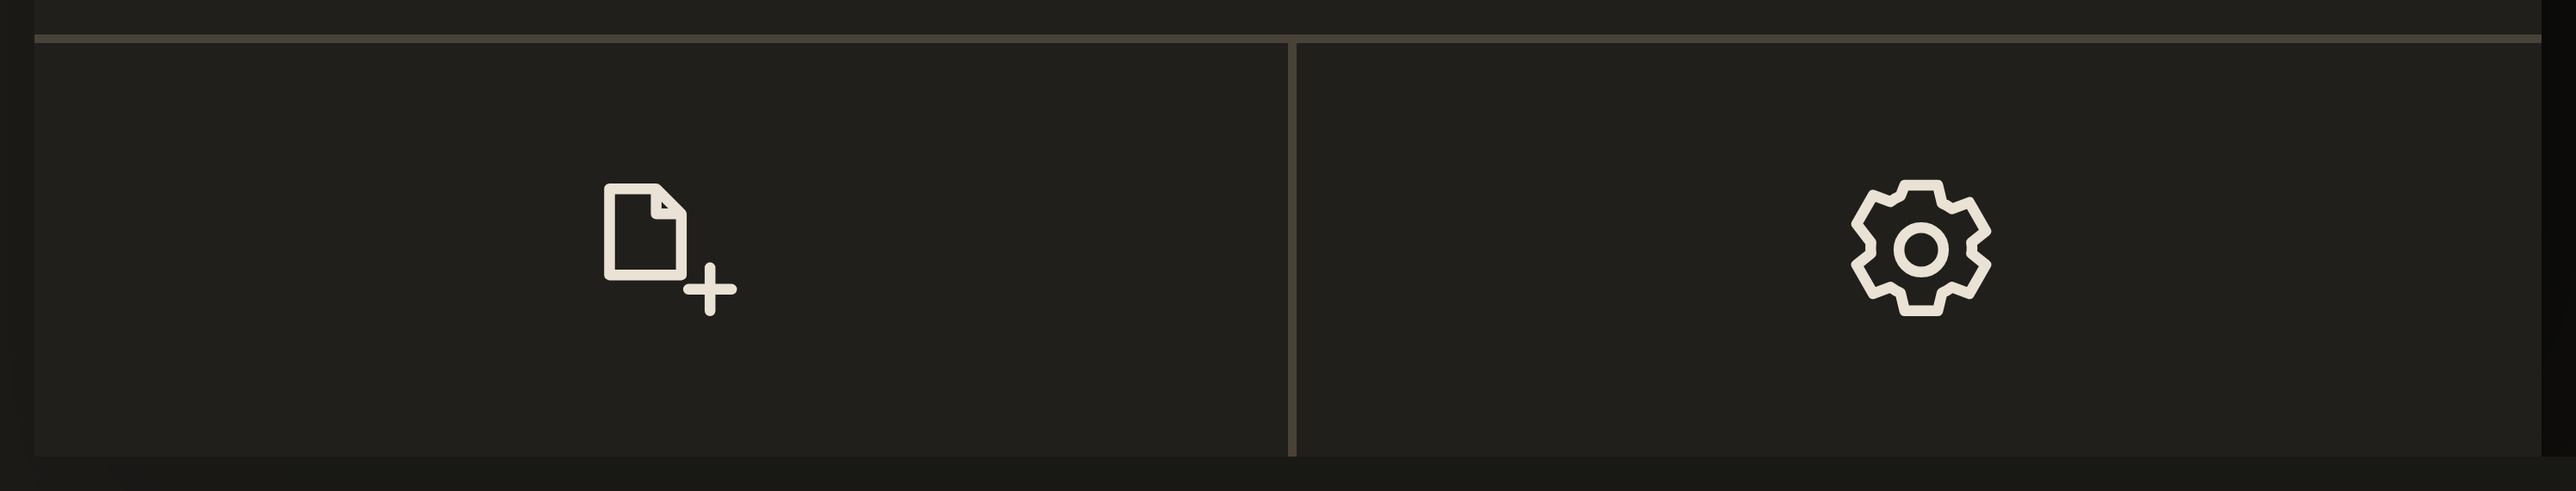
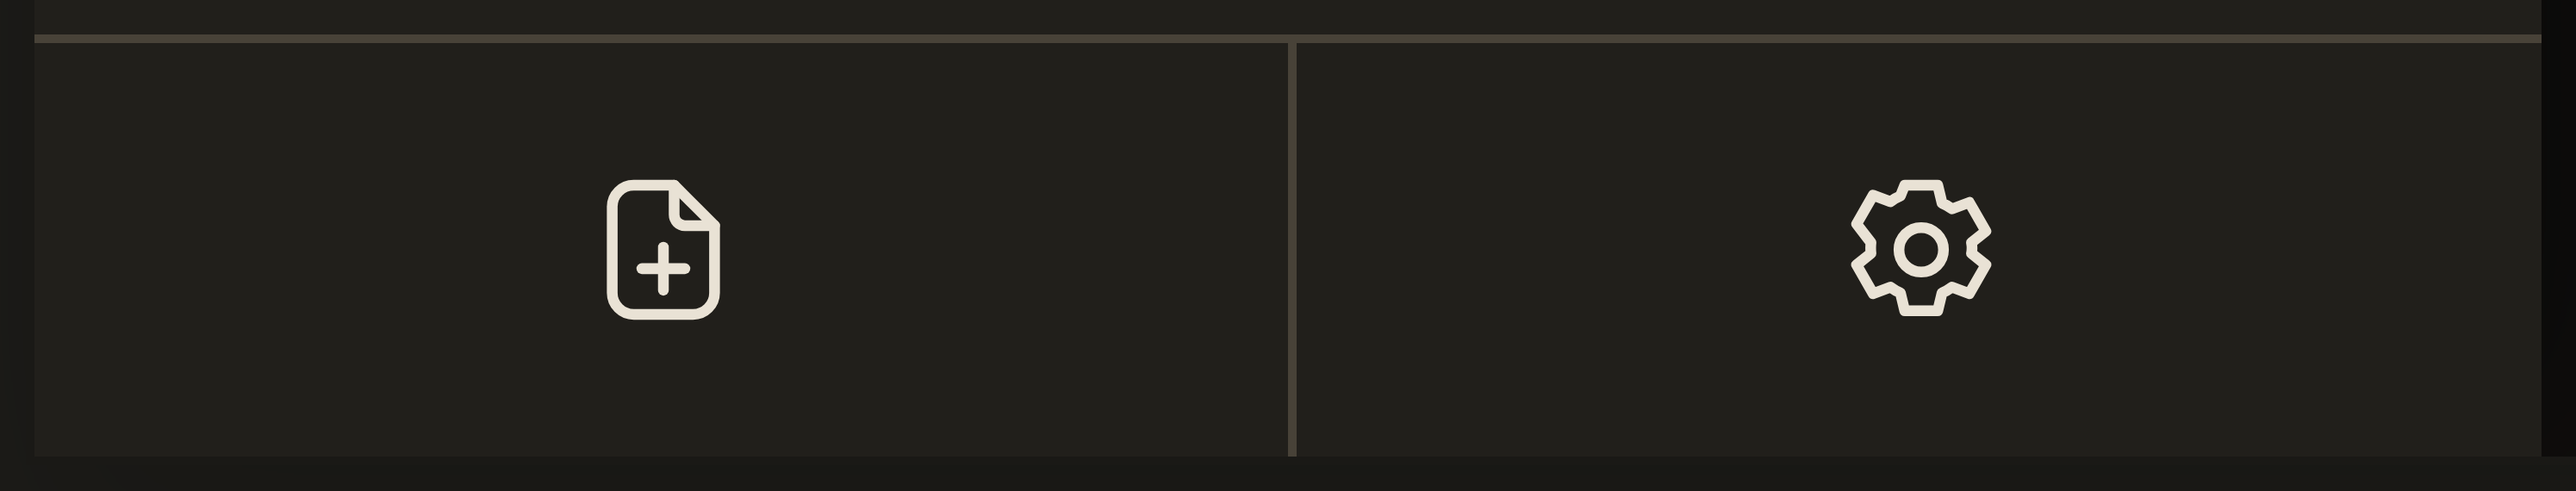
docs(ui-redraw): 新建图标改用「纸 + 纸内加号」
用户直接给了图标原稿：一张带折角的纸，加号画在纸身中间。原稿是 16 格
网格、描边 0.833，与项目 24 格、描边 1.5 的图标体系不同。原样贴进去会
缩一圈、描边偏细，跟旁边齿轮不匹配。

处理方式：把原稿几何按 1.5 倍换算烘焙进 24 格坐标系（坐标乘 1.5），
描边沿用体系的 1.5。形状与原稿完全一致，只是跟其他图标同规格。

真实浏览器比对过三种贴法：原样贴（缩一圈）、换算后保持原描边比例
（比齿轮细）、换算后对齐体系描边（与齿轮齐平）。采用第三种。

验收判据随之更新：旧判据「新建图标是两条笔画」已不适用，改为
「两条曲线 + 两条直线」并加一条「加号落在纸身内部」，防止实现时
退回到「纸旁另挂一个加号」。

真浏览器 30 条判据全过；浅色深色、390/1280 两宽都看过。

Changed region(s): [[0.2177, 0.3579, 0.311, 0.6561]]

diff --git a/docs/design/ui-redraw/prototype.html b/docs/design/ui-redraw/prototype.html
@@ -454,7 +454,7 @@ body { font-family:var(--font-ui); padding:0 0 80px; }
   <g id="i-clear"><path d="M8.5 8.5l7 7M15.5 8.5l-7 7"/></g>
   <g id="i-search"><circle cx="10.5" cy="10.5" r="6.5"/><path d="M15.5 15.5L20 20"/></g>
   <g id="i-settings"><path d="M9.7 3h4.6l.6 2.5c.5.2 1 .5 1.4.8l2.4-.9 2.3 4-2 1.6c.1.5.1 1 0 1.5l2 1.6-2.3 4-2.4-.9c-.4.3-.9.6-1.4.8l-.6 2.5H9.7l-.6-2.5c-.5-.2-1-.5-1.4-.8l-2.4.9-2.3-4 2-1.6a7 7 0 0 1 0-1.5L3 8.4l2.3-4 2.4.9c.4-.3.9-.6 1.4-.8z"/><circle cx="12" cy="12" r="3.1"/></g>
-  <g id="i-new"><path d="M4.5 3.5h6.5l3.5 3.5v8.5h-10zM11 3.5V7h3.5"/><path d="M15.5 17.5h6M18.5 14.5v6"/></g>
+  <g id="i-new"><path d="M7.875 3 L13.5 3 L19.125 8.625 L19.125 18 C19.125 19.658 17.783 21 16.125 21 L7.875 21 C6.218 21 4.875 19.658 4.875 18 L4.875 6 C4.875 4.343 6.218 3 7.875 3 Z"/><path d="M13.5 3 L13.5 7.125 C13.5 7.953 14.172 8.625 15 8.625 L19.125 8.625"/><line x1="12" y1="11.625" x2="12" y2="17.625"/><line x1="9" y1="14.625" x2="15" y2="14.625"/></g>
   <g id="i-back"><path d="M14.5 5l-7 7 7 7"/></g>
   <g id="i-more"><circle cx="5" cy="12" r="1.4" fill="currentColor" stroke="none"/><circle cx="12" cy="12" r="1.4" fill="currentColor" stroke="none"/><circle cx="19" cy="12" r="1.4" fill="currentColor" stroke="none"/></g>
   <g id="i-chev-r"><path d="M9 5l7 7-7 7"/></g>
